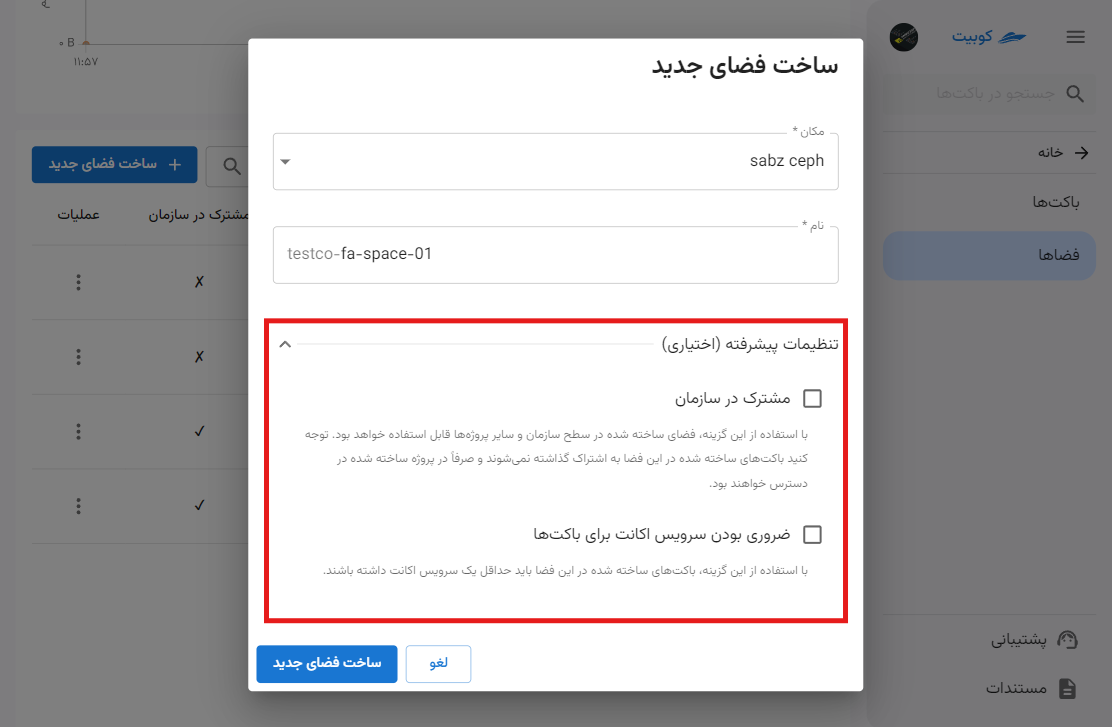
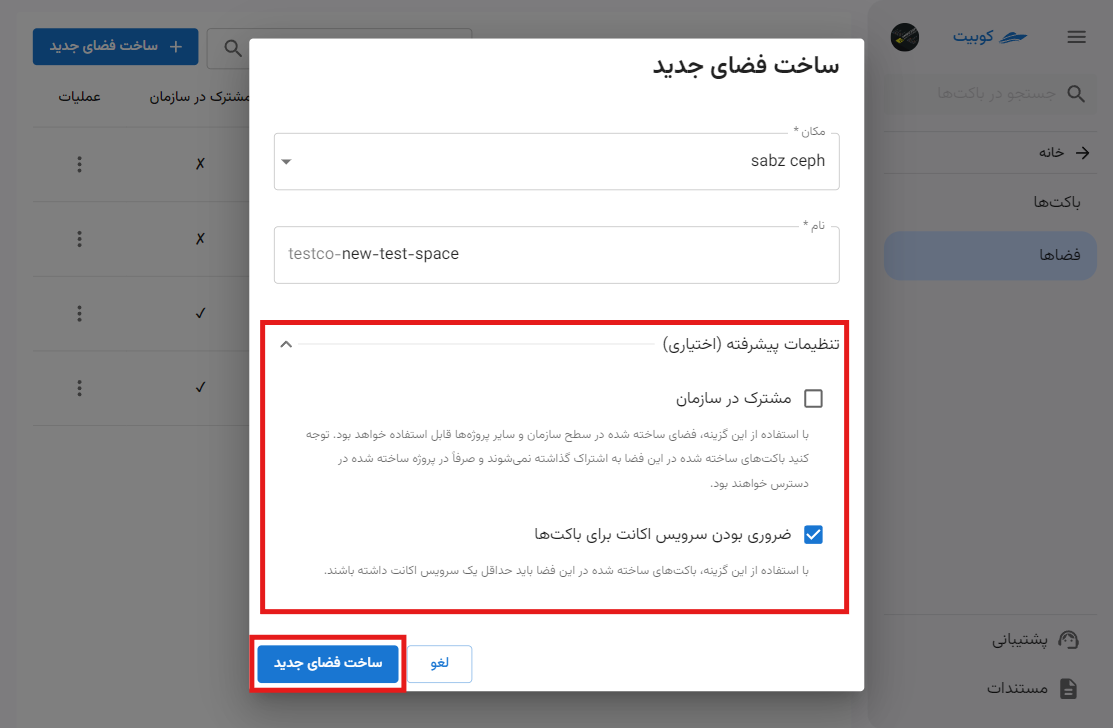
add access management for space docs, move create space docs to new file create-space.md

diff --git a/docs/fa/buckets/space.md b/docs/fa/buckets/space.md
@@ -1,77 +1,99 @@
-# فضا
+# مدیریت فضاها
 
-در این صفحه، چارت گزارش از وضعیت فضای ذخیرهسازی سازمان شامل **تعداد باکتها**، **حجم فضای استفاده شده**، **ترافیک آپلود** و **ترافیک دانلود** به همراه لیستی از فضاهای سازمان (فضاهای پروژه انتخاب شده و فضاهای مشترک در سازمان) وجود دارد.
+در این صفحه، چارت گزارش از وضعیت فضای ذخیرهسازی سازمان شامل **تعداد باکتها**، **حجم فضای استفاده شده**، **ترافیک آپلود** و **ترافیک دانلود** به همراه **لیست فضاهای سازمان** (فضاهای پروژه انتخاب شده و فضاهای مشترک در سازمان) وجود دارد.
 
 از صفحه سرویس باکتها، پس از [انتخاب یک پروژه متصل](../bucket-settings#select-project)، روی **فضاها** کلیک کنید:
-![Space: spaces](spaces.png)
+![Create Space: spaces](spaces.png)
 
 همانطور که مشاهده میکنید، در صفحه فضاها چارت گزارش در بازههای زمانی مختلف وجود دارد:
-![Space: space page](space-page.png)
+![Create Space: space page](space-page.png)
 
 ## لیست فضاها
 
 لیست فضاهای پروژه انتخاب شده، در انتهای صفحه نیز قابل مشاهده میباشد. در این لیست اطلاعاتی شامل **مکان**، **اندازه** و **مشترک در سازمان** به ازای هر فضا، وجود دارد:
-![Space: space page](spaces-list.png)
+![Create Space: space page](spaces-list.png)
 
 ## تنظیمات فضا
 
 با کلیک روی نام هر فضا، به صفحه جزئیات آن شامل **نمای کلی** (چارت گزارش و باکتها) و مدیریت **دسترسیها** هدایت خواهید شد.
+
+### نمای کلی
+
 چارت گزارش:
-![Space: space details](space-details.png)
+![Create Space: space details](space-details.png)
 
 لیست باکتهای فضا:
-![Space: space details 2](space-details-2.png)
+![Create Space: space details 2](space-details-2.png)
 
-با کلیک روی نام هر باکت، به صفحه آن باکت هدایت خواهید شد:
-![Space: bucket overview](bucket-details.png)
+با کلیک روی نام هر باکت، به صفحه [مرورگر باکت](../bucket#bucket-browser) هدایت خواهید شد:
+![Create Space: bucket overview](bucket-details.png)
 
 ### مدیریت دسترسیها
 
 از منوی سمت راست صفحه جزئیات یک فضا، روی گزینه **دسترسیها** کلیک کنید:
-![Space: space access management](space-access-managemet.png)
+![Create Space: space access management](space-access-managemet.png)
 
 در این صفحه، به **کلیدهای دسترسی به فضا** و **لیست سرویس اکانتها** دسترسی خواهید داشت:
-![Space: space access details](space-access-details.png)
+![Create Space: space access details](space-access-details.png)
 
 #### سرویس اکانتها
 
+در این بخش، لیست سرویس اکانتهای موجود به همراه اطلاعاتی چون **نام**، **وضعیت دسترسی در فضا**، **نام فضا** و **مشترک در سازمان** و امکان **ساخت سرویس اکانت جدید** وجود دارد.
+
 ##### ساخت سرویس اکانت جدید
 
-## ساخت فضای جدید
+برای ساخت سرویس اکانت، روی دکمه **ساخت سرویس اکانت جدید** کلیک کنید:
+![Create Space: new service account](new-space-service-account.png)
 
-در صفحه سرویس باکتها، پس از [انتخاب یک پروژه متصل](../bucket-settings#select-project)، به صفحه **فضاها** رفته و روی **ساخت فضای جدید** کلیک کنید:
-![Space: new space btn](new-space-btn.png)
+**نام** را وارد کرده و نوع **دسترسی** را نیز انتخاب کنید:
+![Create Space: new service account form](new-space-service-account-form.png)
+![Create Space: new sa access list](new-space-sa-access-list.png)
 
-ابتدا **مکان** را انتخاب کرده و **نام** فضا را وارد کنید:
-![Space: new space form](new-space-form.png)
+در صورت تمایل برای به اشتراک گذاری سرویس اکانت در سطح سازمان، گزینه **مشترک در سازمان** را انتخاب کرده و روی **ایجاد** کلیک کنید:
+![Create Space: create new sa](create-new-space-sa.png)
 
-:::info[لیست مکانهای موجود]
-برای تعیین مکان، تنها میتوانید از میان مکانهای موجود در کوبیت، انتخاب کنید:
-![Space: new space location list](new-space-location-list.png)
-:::
+در ستون عملیات و از طریق دکمه سه نقطه، لیستی از عملیاتهای موجود برای هر سرویس اکانت وجود دارد:
+![Create Space: service account options](space-service-account-options.png)
 
-### تنظیمات پیشرفته (اختیاری)
+##### عملیاتهای سرویس اکانت
 
-- **مشترک در سازمان**
+###### نمایش کلیدها
 
-  این گزینه فضا را در سطح سازمان و سایر پروژههای سازمان به اشتراک میگذارد و دیگر کاربران سازمان میتوانند برای ساخت باکت، از این فضا استفاده کنند.
-  توجه داشته باشید که باکتهای ساخته شده در این فضا تنها در پروژه منتسب به فضا قابل دسترس خواهند بود.
+- ابتدا روی گزینه **نمایش کلیدها** کلیک کنید.
+- در انتها پنجرهای حاوی کلیدهای Access Key و Secret Key نمایش داده میشود.
+  ![Create Space: display sa keys](display-sa-keys.png)
+  ![Create Space: display sa keys 2](display-sa-keys-2.png)
 
-- **ضروری بودن سرویس اکانت برای باکتها**
+###### ویرایش سطح دسترسی
 
-  با فعالسازی این گزینه، باکتهایی که در این فضا ساخته میشوند، باید حداقل یک سرویس اکانت داشته باشند.
-  برای اطلاعات بیشتر درباره سرویس اکانت، میتوانید به سند مفاهیم پایه، بخش [سرویس اکانت](../#service-account) مراجعه کنید.
+- ابتدا روی گزینه **ویرایش سطح دسترسی** کلیک کنید.
+- سپس از لیست دسترسیها، دسترسی موردنظر خود را انتخاب کنید.
+- در انتها برای ویرایش سطح دسترسی روی **بهروزرسانی سطح دسترسی** کلیک کنید.
+  ![Create Space: edit sa level](edit-sa-access-level.png)
+  ![Create Space: edit sa level 2](edit-sa-access-level-2.png)
+  ![Create Space: edit sa level 3](edit-sa-access-level-3.png)
+  ![Create Space: edit sa level 4](edit-sa-access-level-4.png)
 
-![Space: space advanced settings](space-advanced-settings.png)
-در صورتی که پیش از این سرویس اکانت تعریف شدهای داشتهاید، از گزینه **سرویس اکانت** میتوانید آن را انتخاب کنید و در صورت تمایل به ایجاد سرویس اکانت جدید، روی گزینه **ساخت سرویس اکانت جدید** کلیک کنید:
+###### ایجاد دوباره کلیدها
 
-_لیست سرویس اکانت های موجود_
+این عملیات، کلیدهای فعلی سرویس اکانت را باطل کرده و کلیدهای جدید را جایگزین آنها میکند.
 
-در انتها روی **ساخت فضای جدید** کلیک کنید تا فضای موردنظر ایجاد شود.
+- ابتدا روی گزینه **ایجاد دوباره کلیدها** کلیک کنید.
+- در صورت اطمینان برای انجام این عملیات، روی گزینه **ایجاد دوبارهی کلیدها** کلیک کنید.
+  ![Create Space: regenerate sa keys](regenerate-sa-keys.png)
+  ![Create Space: regenerate sa keys 2](regenerate-sa-keys-2.png)
+
+###### حذف سرویس اکانت
+
+- ابتدا روی گزینه **حذف سرویس اکانت** کلیک کنید.
+- در صورت تمایل برای حذف سرویس اکانت از باکتها نیز، گزینه **پاک کردن سرویس اکانت از باکتها این فضا** را انتخاب کنید.
+- در انتها برای انجام عملیات حذف، برای گزینه **پاک کردن سرویس اکانت** کلیک کنید.
+  ![Create Space: remove sa](remove-space-sa.png)
+  ![Create Space: remove sa 2](remove-space-sa-2.png)
 
 ## حذف فضا
 
 - برای حذف فضا، کافیست روی دکمه سه نقطه فضای مربوطه کلیک کرده و گزینه **پاک کردن فضا** را انتخاب کنید.
 - سپس با کلیک روی **پاک کردن**، فضا را حذف کنید.
-  ![Space: remove space](remove-space.png)
-  ![Space: confirm remove space](confirm-remove-space.png)
+  ![Create Space: remove space](remove-space.png)
+  ![Create Space: confirm remove space](confirm-remove-space.png)

diff --git a/docs/fa/buckets/create-space.md b/docs/fa/buckets/create-space.md
@@ -1,0 +1,23 @@
+# ساخت فضای جدید
+
+در صفحه سرویس باکتها، پس از [انتخاب یک پروژه متصل](../bucket-settings#select-project)، به صفحه **فضاها** رفته و روی **ساخت فضای جدید** کلیک کنید:
+![Space: new space btn](new-space-btn.png)
+
+ابتدا **مکان** را از لیست مکانهای موجود انتخاب کرده و **نام** فضا را وارد کنید:
+![Space: new space form](new-space-form.png)
+![Space: new space location list](new-space-location-list.png)
+
+## تنظیمات پیشرفته (اختیاری)
+
+### مشترک در سازمان
+
+این گزینه فضا را در سطح سازمان و سایر پروژههای سازمان به اشتراک میگذارد و دیگر کاربران سازمان میتوانند برای ساخت باکت، از این فضا استفاده کنند.
+توجه داشته باشید که باکتهای ساخته شده در این فضا تنها در پروژه منتسب به فضا قابل دسترس خواهند بود.
+
+### ضروری بودن سرویس اکانت برای باکتها
+
+با فعالسازی این گزینه، باکتهایی که در این فضا ساخته میشوند، باید حداقل یک سرویس اکانت داشته باشند.
+برای اطلاعات بیشتر درباره سرویس اکانت، میتوانید به سند مفاهیم پایه، بخش [سرویس اکانت](../#service-account) مراجعه کنید.
+
+![Space: space advanced settings](space-advanced-settings.png)
+در انتها روی **ساخت فضای جدید** کلیک کنید تا فضای موردنظر ایجاد شود.

diff --git a/docs/fa/buckets/index.md b/docs/fa/buckets/index.md
@@ -2,6 +2,7 @@
 subDocuments:
   - bucket-settings
   - space
+  - create-space
   - bucket
   - create-bucket
 ---
